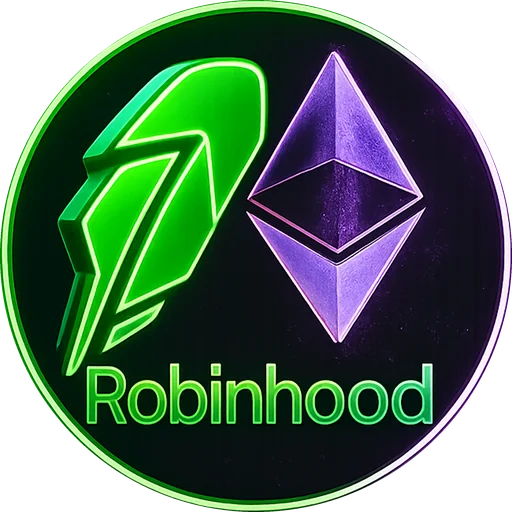
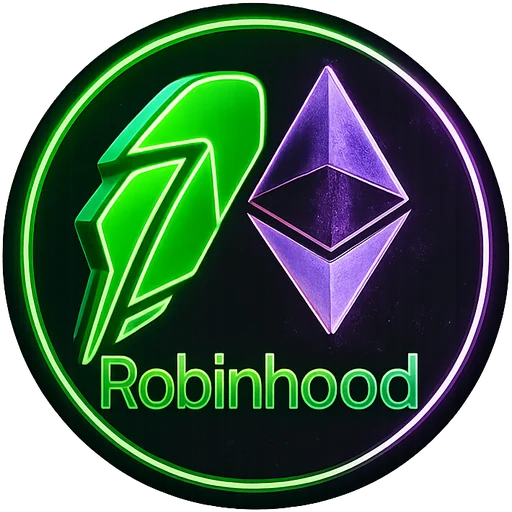
Wallet : la piece ETH (RH) est l'image livree, avec sa propre transparence
L'image portait DEJA son canal alpha : 76 % de sa surface est transparente
et l'enseigne y est detouree proprement, liston noir compris. Je l'ai
convertie en RGB — ce qui jette l'alpha et fait apparaitre les pixels
caches DESSOUS : un mur gris-vert. J'ai alors mesure ce faux mur, calcule
ou il commencait, et redecoupe un cercle a la main pour l'eviter, en
coupant a ras du neon et en perdant le liston noir. Il n'y avait rien a
decouper. Toute cette mesure repondait a un probleme que j'avais cree.

La piece vient maintenant du fichier tel quel :

  - on prend le rectangle exact de la partie opaque, 704 x 678 ;
  - on le ramene au carre, parce que l'enseigne est legerement ovale et
    qu'un recadrage carre la laisserait ovale au milieu de pieces rondes ;
  - on PREMULTIPLIE avant de reduire : sous les pixels transparents la
    couleur est encore celle du mur, et sans cela l'interpolation la
    melangerait au bord et poserait un lisere gris-vert tout autour.

L'essai gagne les deux mesures qui disent exactement cette faute, et que
rien d'autre ne ferait tomber : les quatre coins de la piece sont
transparents, et il ne reste aucun mur gris-vert autour d'elle. L'alpha
jete, les coins passent de 0 a 255 et le mur de 0,15 % a 58 % de la piece.

266 verifications, tout passe.

Claude-Session: https://claude.ai/code/session_01GgQpZiSKthZNQDxZe1nGCE

diff --git a/wallet_page.test.js b/wallet_page.test.js
@@ -182,16 +182,22 @@ function servir(q, r, f, type) {
       const g = c.getContext('2d');
       g.drawImage(im, 0, 0, 128, 128);
       const d = g.getImageData(0, 0, 128, 128).data;
-      let vert = 0, violet = 0, vus = 0;
+      let vert = 0, violet = 0, vus = 0, mur = 0;
       for (let i = 0; i < d.length; i += 4) {
         const [r, v, b, a] = [d[i], d[i+1], d[i+2], d[i+3]];
         if (a <= 128) continue;
         vus++;
         if (v > r + 40 && v > b + 40) vert++;
         if (b > v + 30 && r > v + 15) violet++;
+        /* Le mur gris-vert sur lequel l enseigne est photographiee. */
+        const L = (r + v + b) / 3, mn = Math.min(r, v, b), mx = Math.max(r, v, b);
+        if (L > 50 && L < 130 && v >= r && v >= b && mx - mn < 32) mur++;
       }
+      const coin = (x, y) => d[(y * 128 + x) * 4 + 3];
       return { src: im.getAttribute('src'), vus,
-               vert: +(100*vert/16384).toFixed(2), violet: +(100*violet/16384).toFixed(2) };
+               coins: [coin(2, 2), coin(125, 2), coin(2, 125), coin(125, 125)],
+               vert: +(100*vert/16384).toFixed(2), violet: +(100*violet/16384).toFixed(2),
+               mur: +(100*mur/16384).toFixed(2) };
     });
     console.log('   piece ETH (RH) : ' + JSON.stringify(teintes));
     /* Sans ce garde, une piece qui ne se dessine pas rendrait zero partout et
@@ -202,6 +208,24 @@ function servir(q, r, f, type) {
        'elle porte le vert de Robinhood (' + teintes.vert + ' %) — le losange violet seul ne disait pas la chaine');
     ok(teintes.violet > 3,
        'et le violet de l Ethereum (' + teintes.violet + ' %) — c est bien de l ether qu il s agit');
+
+    /* ---- ET ELLE EST RONDE, PARCE QU ON A GARDE SA TRANSPARENCE ----
+     *
+     * L image livree porte deja son canal alpha : 76 % de sa surface est
+     * transparente et l enseigne y est detouree, liston noir compris. Je l ai
+     * convertie en RGB — ce qui jette l alpha et fait apparaitre les pixels
+     * caches DESSOUS : un mur gris-vert. J ai alors redecoupe un cercle a la
+     * main autour de ce faux mur, en coupant a ras du neon. Il n y avait rien
+     * a decouper.
+     *
+     * Ces deux mesures disent exactement cela, et rien d autre ne les ferait
+     * tomber : l alpha jete, les coins passent de 0 a 255 et le mur de
+     * 0,15 % a 58 % de la piece. */
+    ok(teintes.coins.every((a) => a < 10),
+       'et ses quatre coins sont transparents (' + teintes.coins.join(', ')
+       + ') : c est une piece ronde, pas une photo carree');
+    ok(teintes.mur < 3,
+       'aucun mur gris-vert autour d elle (' + teintes.mur + ' %) — 58 % si l on jette son alpha');
     for (const faux of ['SWOCHIP', 'SWOPOOL', 'SWOXP', 'Solana']) {
       ok(t.indexOf(faux) < 0,
          'aucune trace de « ' + faux +' » — la maquette en montrait, il n existe pas');
